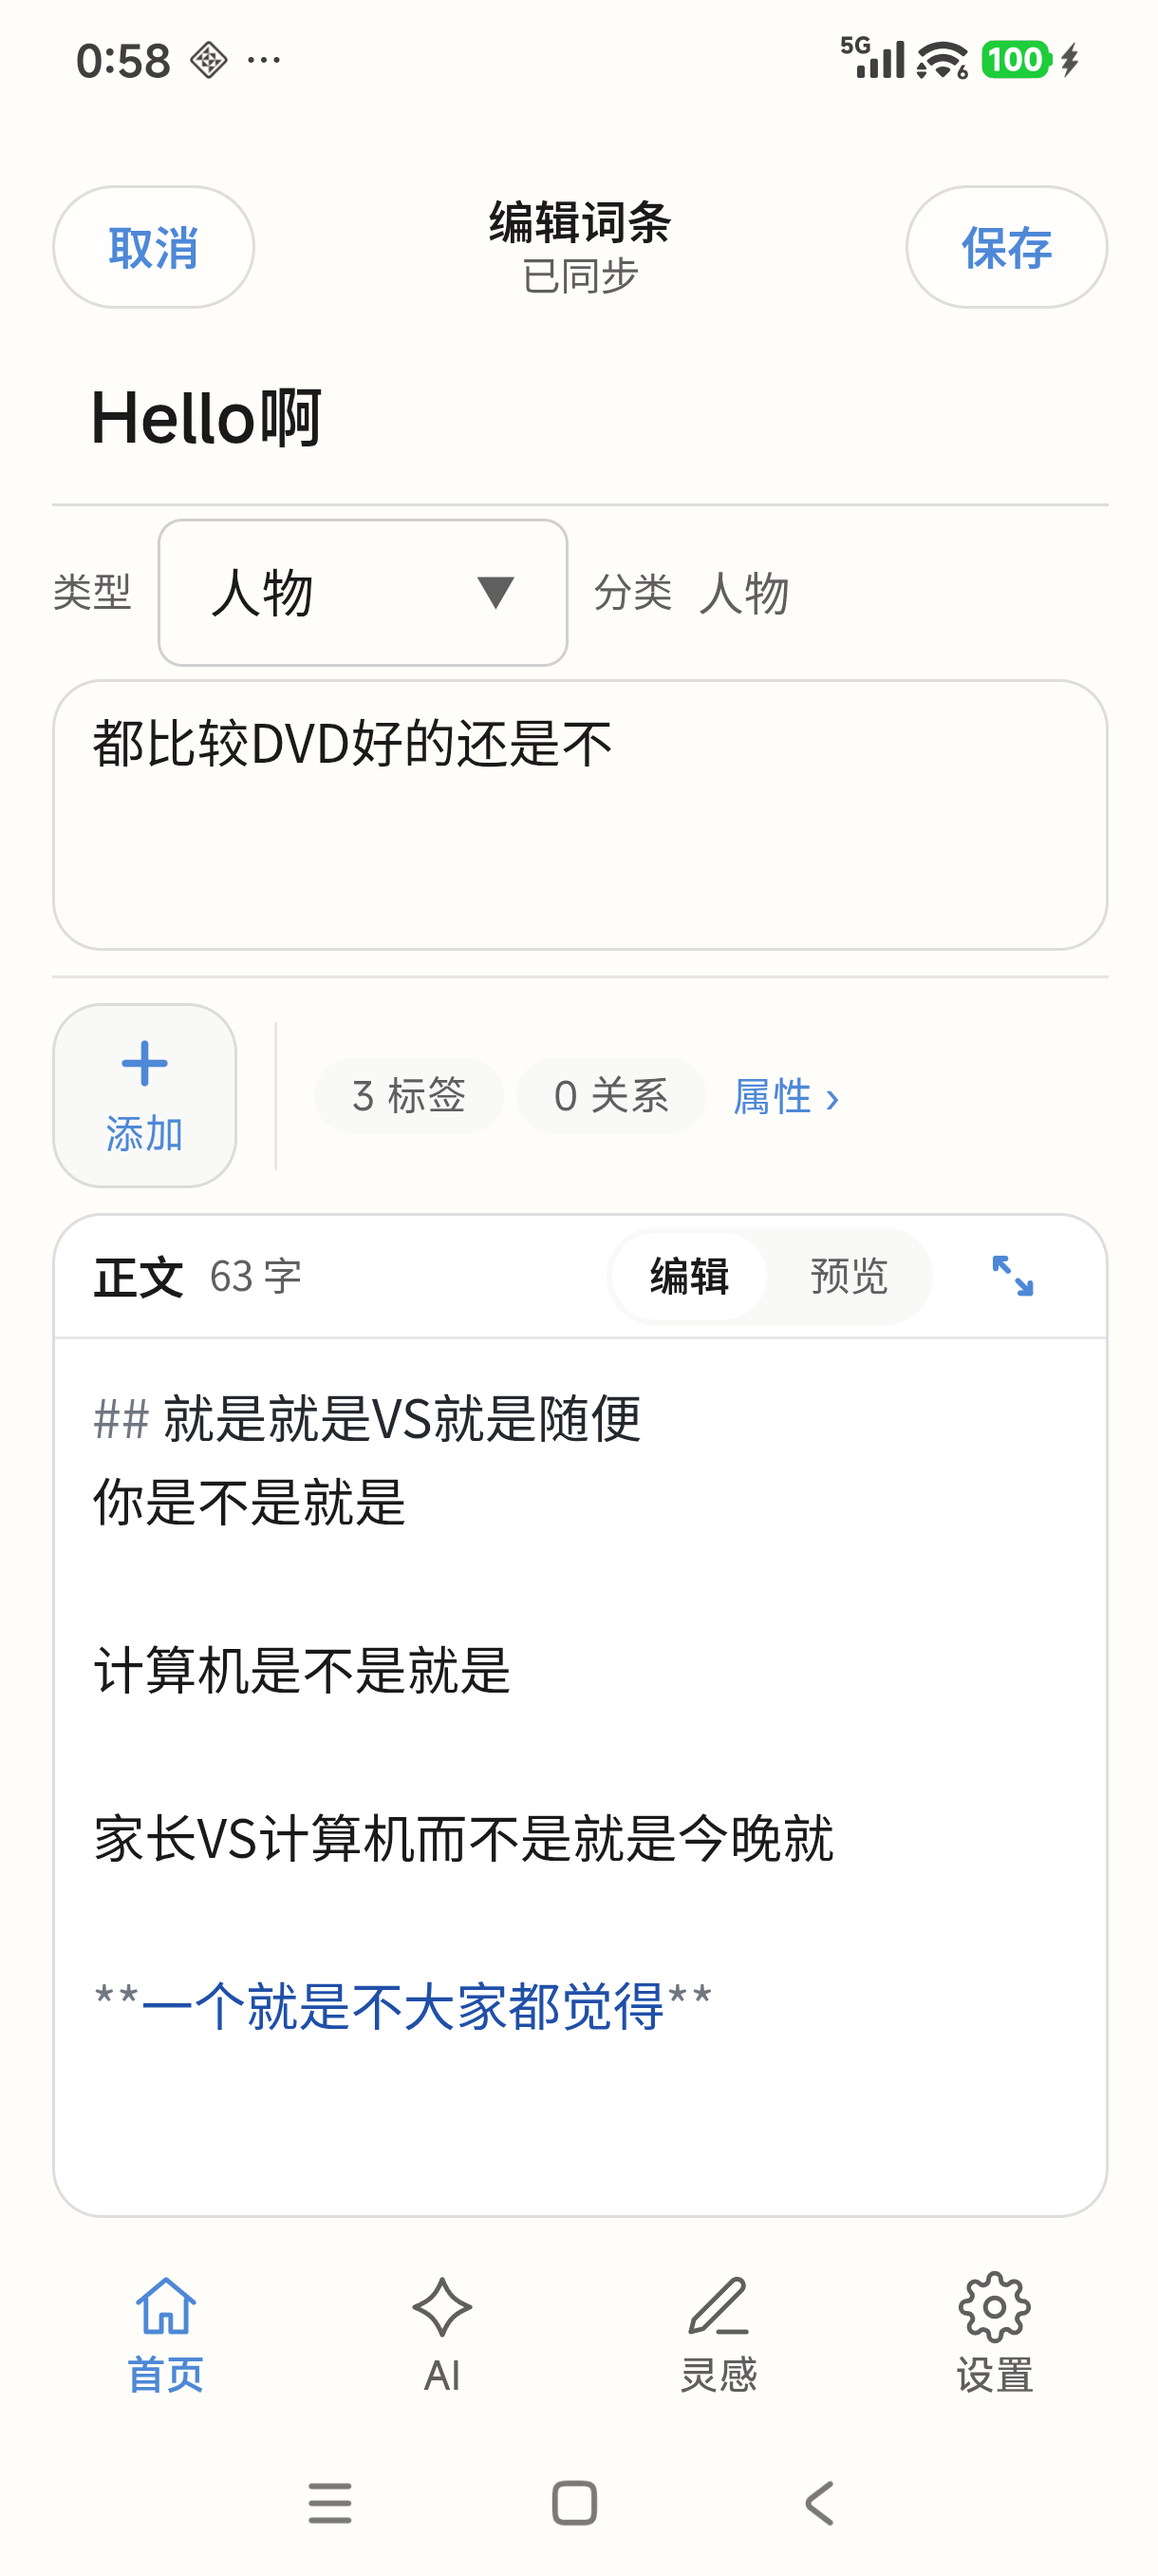
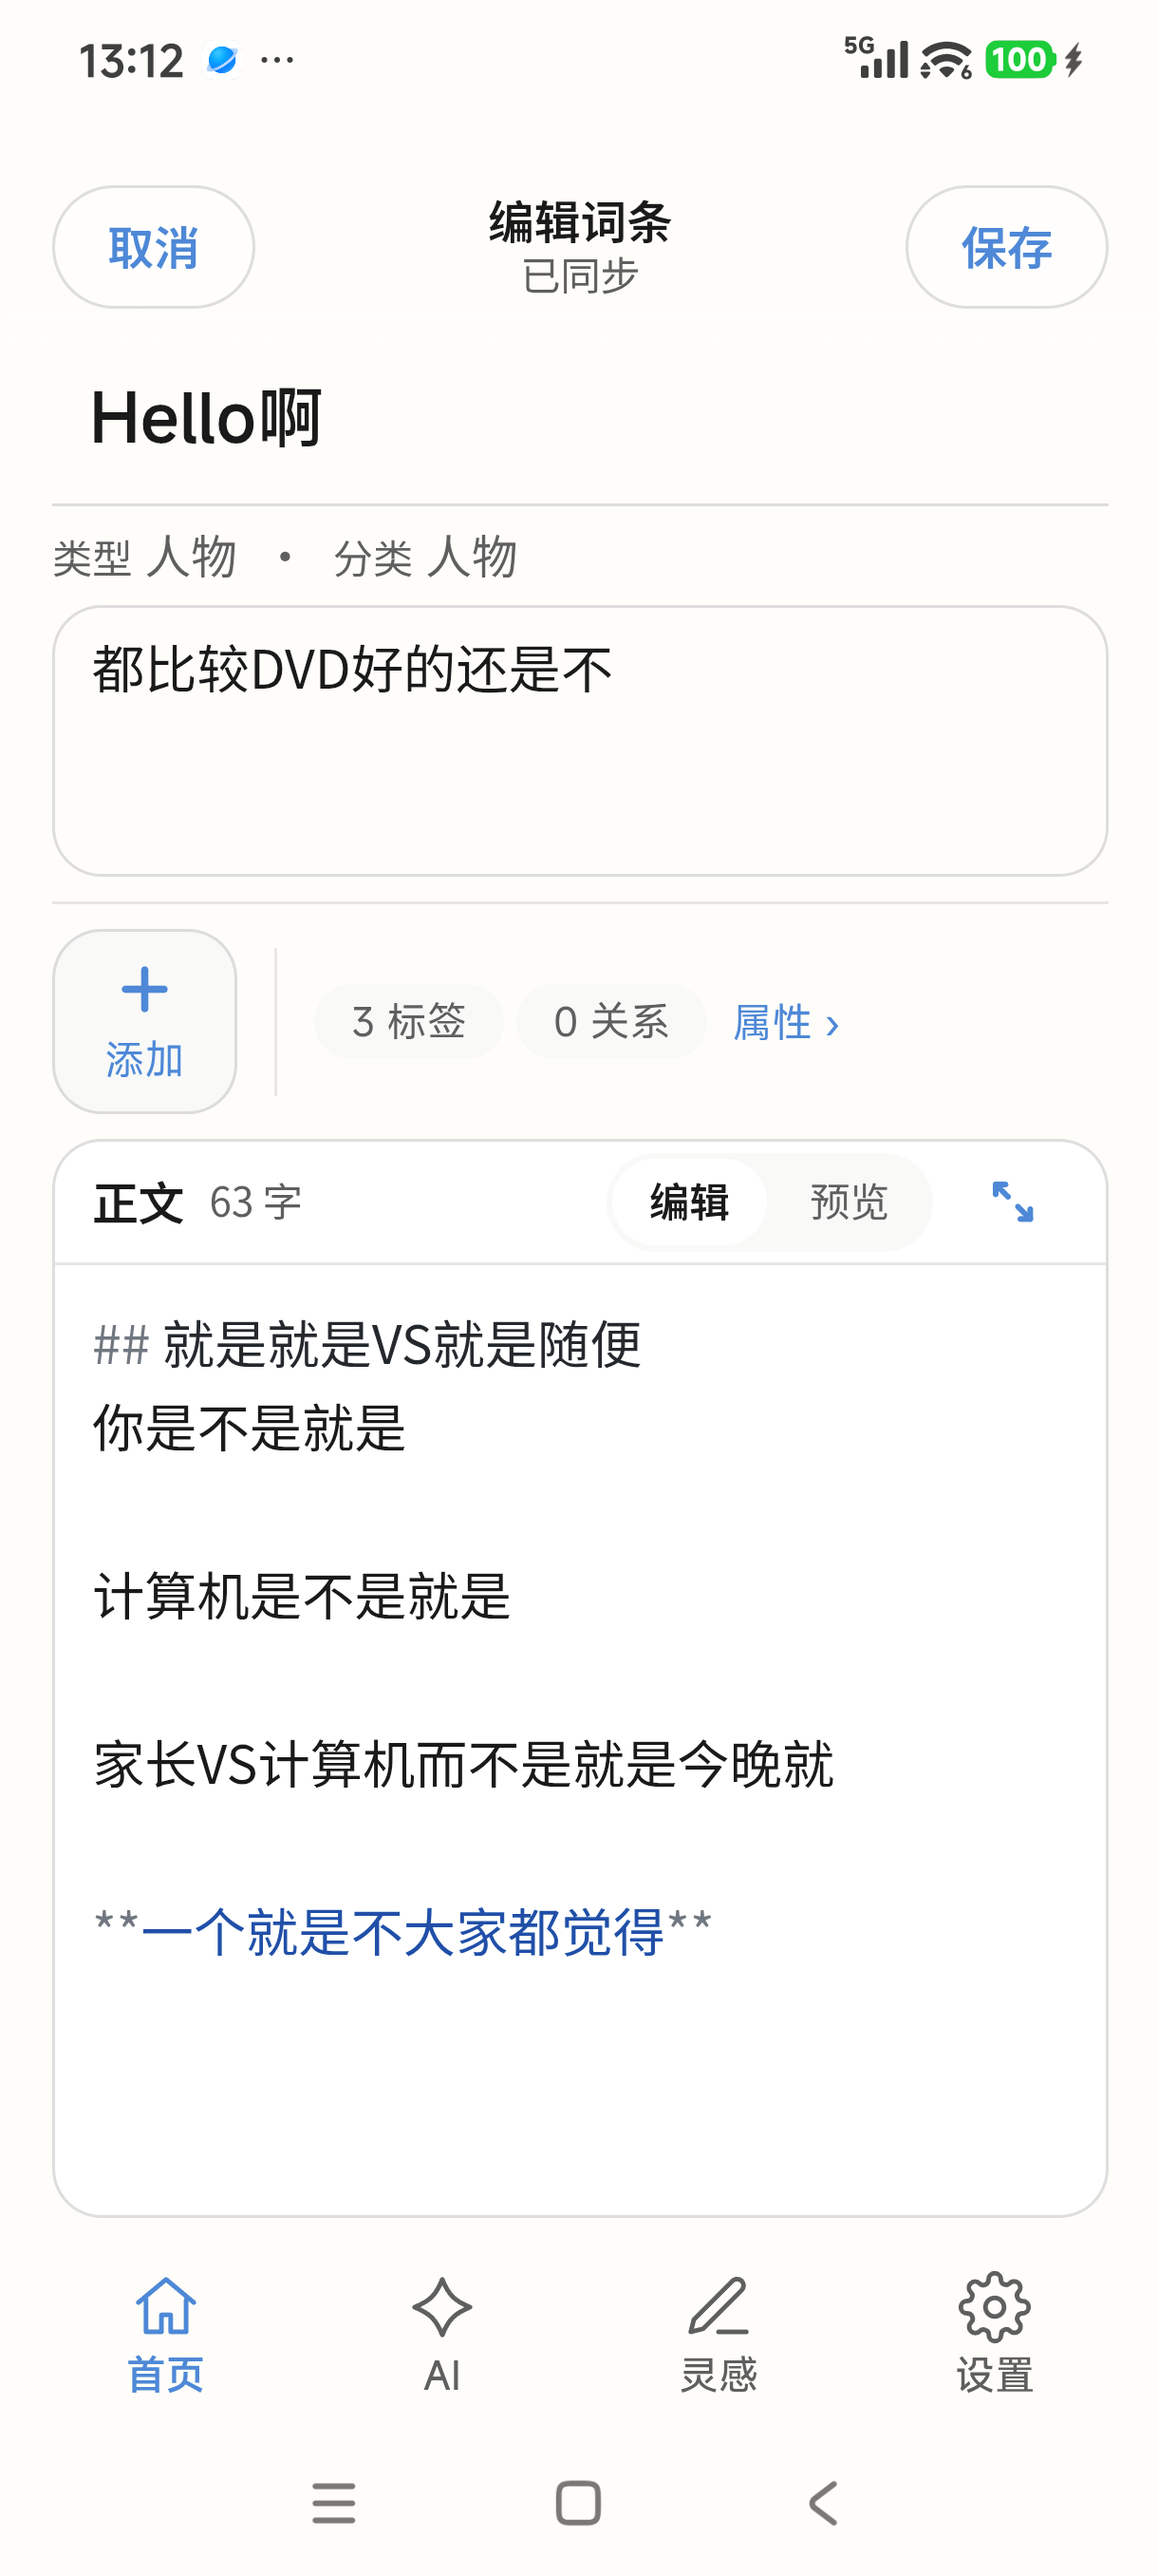
词条类型只保留属性页一个设置入口
编辑主页与属性页各有一个类型选择器，是重复入口。去掉编辑主页的下拉，
与分类并成一行只读展示「类型 人物 · 分类 人物」。

保留展示而不是整行删掉，是因为类型决定了词条植入哪些标签，写正文时
需要知道自己在写什么；要改就走旁边的「属性 ›」。

编辑主页至此只编辑标题、摘要、正文三样，其余均单一入口：
类型与标签、关系在属性页，分类在词条列表的剪贴操作（plans/ENTRY-CLIPBOARD.md）。

身份区 200px → 176px，正文可视高度 284px → 308px（390×844 真机实测）。
顺带清掉随类型下拉一起失效的 identity-select / identity-field 样式。

验证：lint / build / test:mobile-shell 64 通过；Android 16 真机确认编辑页已无下拉。

diff --git a/src/app/mobile/pages/MobileEntryDetailEditView.tsx b/src/app/mobile/pages/MobileEntryDetailEditView.tsx
@@ -1,6 +1,6 @@
 /** 移动端词条编辑主页：身份与附件位于正文之前，正文聚焦时两者平滑折叠。 */
 import {type ComponentProps, type MouseEvent as ReactMouseEvent, type RefObject, useState} from 'react'
-import {Input, Select} from 'flowcloudai-ui'
+import {Input} from 'flowcloudai-ui'
 import {MarkdownEditor, type MarkdownEditorRef} from '../../../features/entries/components/MarkdownEditor/MarkdownEditor'
 import EntryImageAddModal from '../../../features/entries/components/EntryImageAddModal'
 import {type EntryImage} from '../../../features/entries/lib/entryImage'
@@ -30,10 +30,8 @@ interface Props {
     onTitle: (value: string) => void
     summary: string
     onSummary: (value: string) => void
-    entryTypeValue: string
-    entryTypeOptions: Array<{value: string; label: string}>
-    onEntryType: (value: string) => void
-    /** 只读展示用；分类归属不在词条编辑内部变更。 */
+    /** 只读展示用。类型改在属性页，分类改在词条列表的剪贴操作里。 */
+    entryTypeLabel: string
     categoryLabel: string
     content: string
     previewContent: string
@@ -159,23 +157,21 @@ export default function MobileEntryDetailEditView({editorRef, immersiveProps, im
                         <div className="mobile-entry-detail__identity-inner">
                             <Input placeholder="未命名词条" value={p.title} onValueChange={p.onTitle} className="mobile-entry-detail__title-input"/>
                             {/*
-                              * 两个下拉必须带常驻标签：类型和分类可以取同名（真机上就出现过
-                              * 「人物 / 人物」两个一模一样的框），placeholder 在有值时不显示，
-                              * 光看控件分不出哪个是哪个。
+                              * 类型与分类在这里都只读，各自只有一个设置入口：
+                              * 类型改在属性页（编辑主页再放一个下拉就是重复入口），
+                              * 分类归属走词条列表的剪切/复制/多选，见 plans/ENTRY-CLIPBOARD.md。
+                              * 仍然展示是因为类型决定了植入哪些标签，写正文时需要知道自己在写什么。
                               */}
-                            <div className="mobile-entry-detail__identity-selects">
-                                <div className="mobile-entry-detail__identity-field">
+                            <div className="mobile-entry-detail__identity-meta">
+                                <span>
                                     <span className="mobile-entry-detail__identity-field-label">类型</span>
-                                    <Select value={p.entryTypeValue} onValueChange={value => p.onEntryType(String(value ?? ''))} options={p.entryTypeOptions} placeholder="未设置" aria-label="词条类型" className="mobile-entry-detail__identity-select"/>
-                                </div>
-                                {/*
-                                  * 分类只读。归属是词条与分类树的关系，不是词条自己的字段，
-                                  * 改归属走列表上的剪切/复制/多选，见 plans/ENTRY-CLIPBOARD.md。
-                                  */}
-                                <div className="mobile-entry-detail__identity-field mobile-entry-detail__identity-field--readonly">
+                                    {p.entryTypeLabel || '无类型'}
+                                </span>
+                                <span aria-hidden="true">·</span>
+                                <span>
                                     <span className="mobile-entry-detail__identity-field-label">分类</span>
-                                    <span className="mobile-entry-detail__identity-readonly">{p.categoryLabel || '无分类'}</span>
-                                </div>
+                                    {p.categoryLabel || '无分类'}
+                                </span>
                             </div>
                             {/* 摘要不另起标签行：placeholder 已经说明用途，这一行在 834px 视口里换不来信息量。 */}
                             <textarea placeholder="用一两句话概括词条" value={p.summary} onChange={event => p.onSummary(event.target.value)} className="mobile-entry-detail__summary-input" rows={3}/>

diff --git a/src/app/mobile/pages/MobileEntryDetail.css b/src/app/mobile/pages/MobileEntryDetail.css
@@ -816,46 +816,30 @@
     grid-template-rows: 0fr;
 }
 
-.mobile-entry-detail__identity-selects {
-    display: grid;
-    grid-template-columns: repeat(2, minmax(0, 1fr));
-    gap: var(--mobile-gap-inline);
-}
-
-/* 标签常驻在下拉左侧：类型与分类可以同名，只看值分不出是哪一个。 */
-.mobile-entry-detail__identity-field {
-    display: flex;
-    min-width: 0;
-    align-items: center;
-    gap: var(--mobile-gap-inline);
-}
-
 .mobile-entry-detail__identity-field-label {
-    flex: 0 0 auto;
+    margin-inline-end: var(--mobile-gap-text);
     color: var(--fc-color-text-tertiary);
     font-size: var(--mobile-text-meta);
 }
 
-.mobile-entry-detail__identity-select {
-    min-width: 0;
-    flex: 1 1 auto;
-}
-
-/* 只读分类：不做成控件的样子，避免看起来可点。 */
-.mobile-entry-detail__identity-readonly {
-    min-width: 0;
-    flex: 1 1 auto;
-    overflow: hidden;
+/*
+ * 编辑主页的类型与分类都是只读展示，各自只有一个设置入口。
+ * 不做成控件的样子，避免看起来可点。
+ */
+.mobile-entry-detail__identity-meta {
+    display: flex;
+    flex-wrap: wrap;
+    align-items: baseline;
+    gap: var(--mobile-gap-inline);
     color: var(--fc-color-text-secondary);
     font-size: var(--mobile-text-body-sm);
-    text-overflow: ellipsis;
-    white-space: nowrap;
 }
 
-/* 触发器压到刚好等于命中区下限：原来的高度是这一屏最大的一块浪费。 */
-.mobile-entry-detail__identity-select .fc-select__trigger {
-    min-height: var(--mobile-tap-min);
-    height: var(--mobile-tap-min);
+.mobile-entry-detail__identity-meta > span {
+    min-width: 0;
+    overflow: hidden;
+    text-overflow: ellipsis;
+    white-space: nowrap;
 }
 
 /* 缩略图条与计数入口并排一行，不再各占一行。 */

diff --git a/src/app/mobile/pages/MobileEntryDetail.tsx b/src/app/mobile/pages/MobileEntryDetail.tsx
@@ -608,14 +608,11 @@ export default function MobileEntryDetail({push, pop, replace, navigateToTab, se
             onSelect: (event: ReactSyntheticEvent<HTMLTextAreaElement>) => syncWikiDraftFromTextarea(event.currentTarget),
             onFocus: handleContentFocus, onBlur: handleContentBlur,
         }
-        const entryTypeOptions = [
-            {value: '', label: '无类型'},
-            ...entryTypes.map(type => ({value: entryTypeKey(type), label: type.name})),
-        ]
+        const draftType = entryType ? entryTypes.find(item => entryTypeKey(item) === entryType) ?? null : null
         return <MobileEntryDetailEditView
             saving={saving} isDirty={isDirty} error={saveError} onCancel={() => void handleCancel()} onSave={() => void handleSave()}
             title={title} onTitle={setTitle} summary={summary} onSummary={setSummary}
-            entryTypeValue={entryType ?? ''} entryTypeOptions={entryTypeOptions} onEntryType={value => updateDraft({entryType: value || null})}
+            entryTypeLabel={draftType?.name ?? ''}
             categoryLabel={categoryId ? (categoryNameById.get(categoryId) ?? '') : ''}
             content={content} previewContent={buildMarkdownPreviewSource(content, images)} onContentChange={handleContentChange}
             editorRef={inlineContentEditorRef} textareaProps={textareaProps} onMarkdownTool={handleMarkdownTool}

diff --git a/designs/audits/mobile-entry-detail-rebuild-2026-08-26/README.md b/designs/audits/mobile-entry-detail-rebuild-2026-08-26/README.md
@@ -35,8 +35,12 @@
 | 14 | 正文模式切换与展开按钮顶满整行 | 视觉压扁，热区用 `::after` 补齐（基线 §6.1 规则 2） | 按钮 48px → 28px / 36px，正文头 53px → 40px |
 | 15 | 类型 chips 48px 高、行距 16px，观感臃肿 | chip 压到 36px + 热区补齐，行距收到 8px | 类型区 176px → 140px |
 | 16 | 「植入」是内部术语，创作者不可理解 | 移动端隐藏该徽章（植入标签本来就没有删除按钮，那才是可感知的区别）；桌面端不动 | — |
+| 17 | **词条类型在编辑主页和属性页各有一个设置入口，重复** | 编辑主页去掉类型下拉，与分类并成一行只读展示；类型只在属性页设置 | 身份区 200px → 176px |
 
-**正文可视高度（编辑态，390×844 真机）：184px → 284px。**
+**正文可视高度（编辑态，390×844 真机）：184px → 308px。**
+
+编辑主页现在只编辑「标题 / 摘要 / 正文」三样，其余全部单一入口：
+类型在属性页，标签与关系在属性页，分类在词条列表的剪贴操作（尚未实现）。
 
 ## 一个值得记住的坑
 
